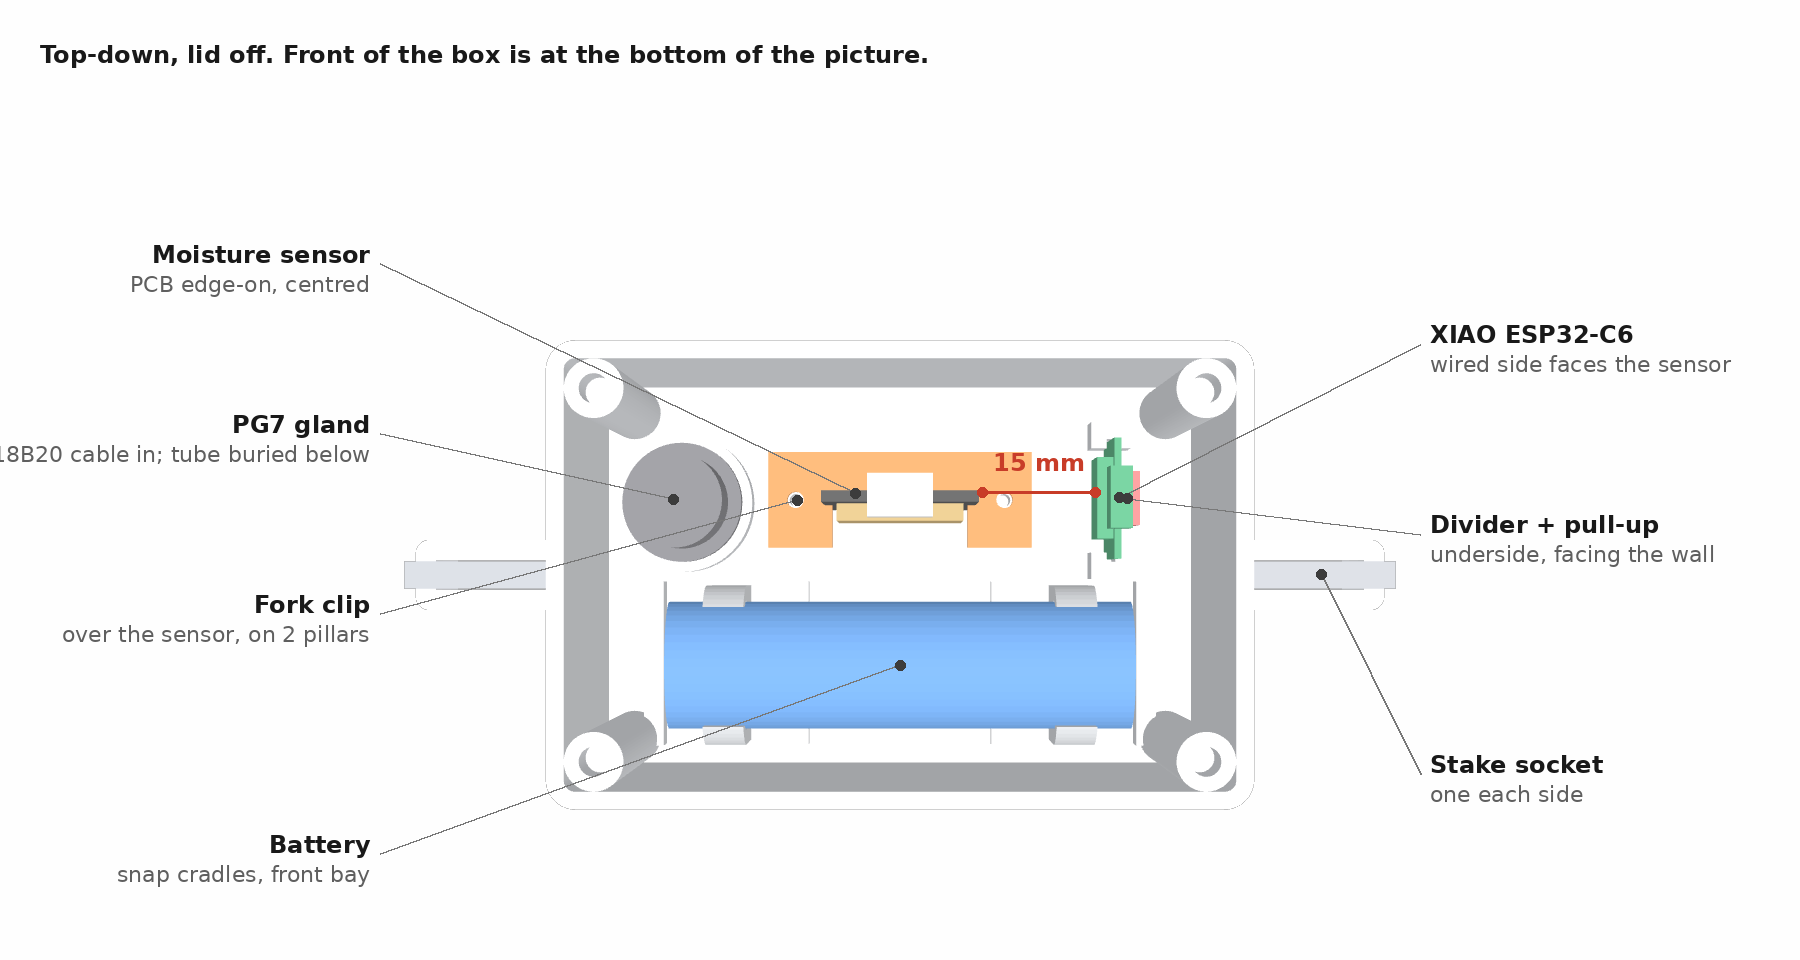
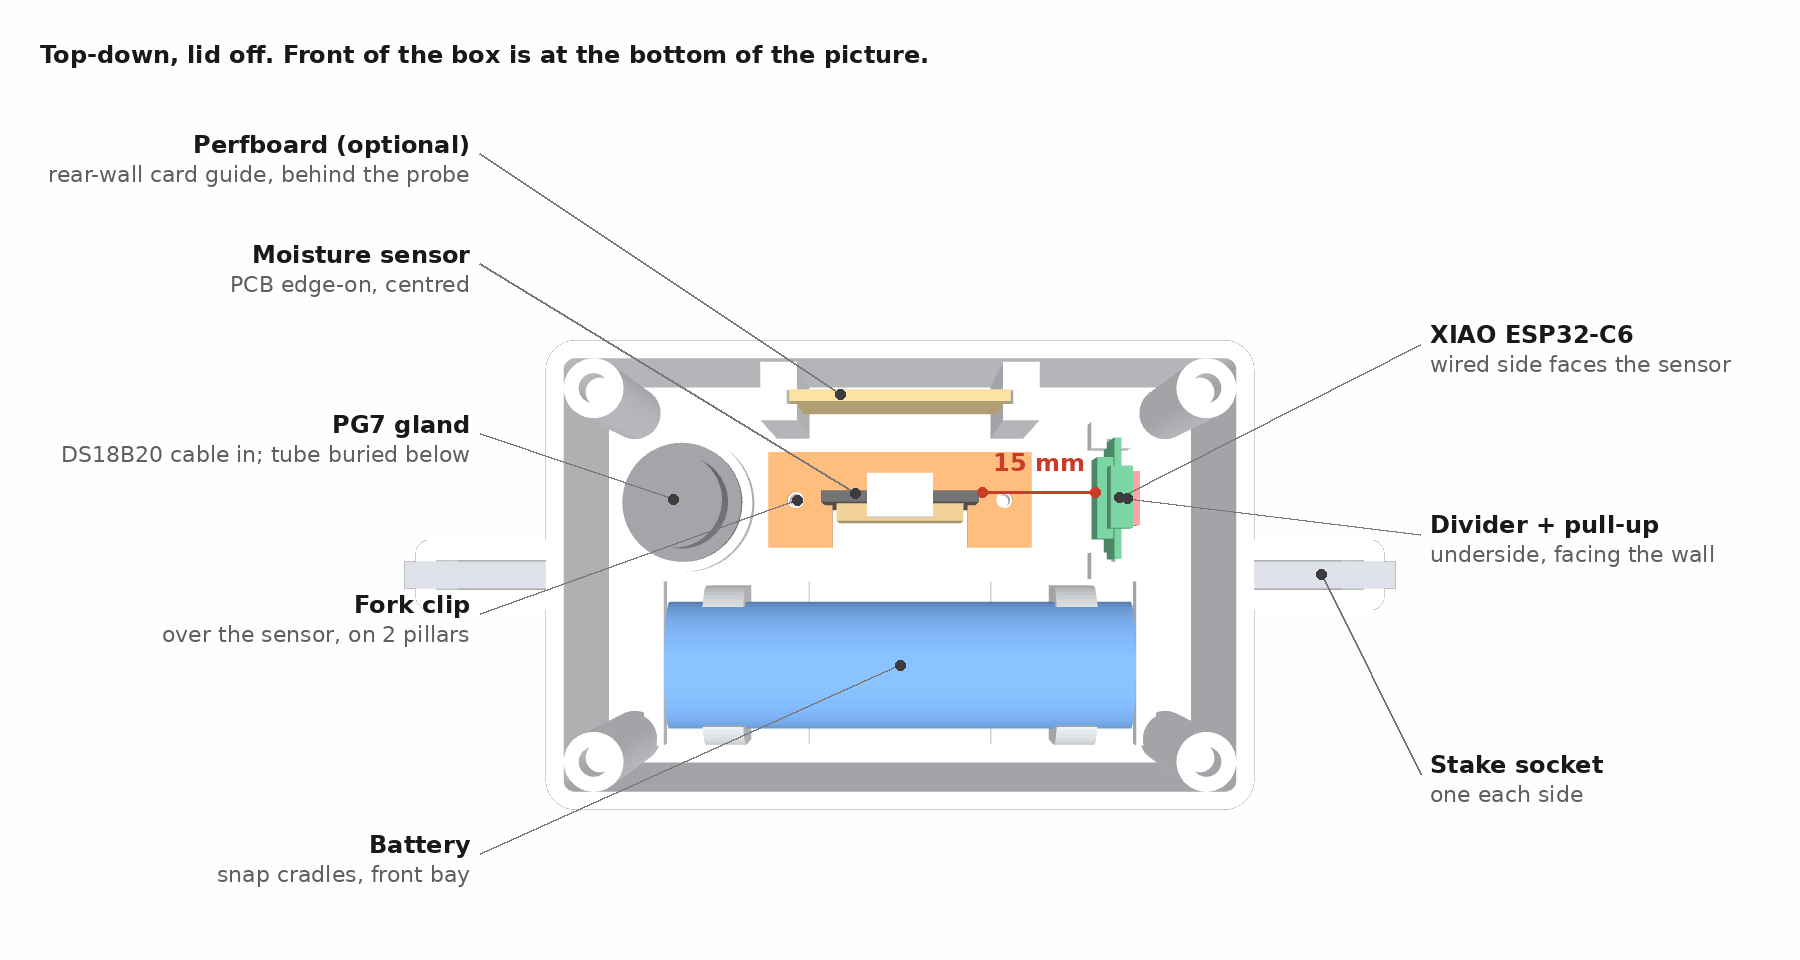
Add perfboard option for the battery divider
Rear-wall card guide for a 30 x 30 mm perfboard behind the probe, a
perfboard soldering guide with layout diagram, and doc/BOM updates.

Claude-Session: https://claude.ai/code/session_01MuCkd32gnwdDotn2UVWEVA

diff --git a/enclosure/soil_enclosure.py b/enclosure/soil_enclosure.py
@@ -69,6 +69,16 @@ XIAO_RAIL_H = 8.0               # covers only the unused bottom pin rows (D4-D6 
 XIAO_WALL_GAP = 13.0            # board plane to right interior wall (underside parts + fingers)
 XIAO_Y0 = 31.4                  # interior Y of the board's front edge
 
+# Optional perfboard (battery junction + divider) in a card guide on the rear wall, behind the
+# probe. Component side faces the probe, solder side faces the wall. Harmless if unused.
+PERF_GUIDE = True
+PERF_W, PERF_H = 30.0, 30.0     # measure yours
+PERF_T = 1.6                    # measure yours; slot = this + PERF_SLOT_CLEAR
+PERF_SLOT_CLEAR = 0.3
+PERF_GRIP = 1.0                 # rail overlap on each side edge (clear of the outer hole columns)
+PERF_WALL_GAP = 4.8             # board mid-plane to rear interior wall (solder side + links)
+PERF_Z0 = 24.0                  # board bottom edge above the floor (clears the probe clip)
+
 # Lid / screws
 BOSS_R = 4.0
 INSERT_D, INSERT_DEPTH = 4.0, 8.0   # M3 heat-set insert (use 2.6 for self-tapping)
@@ -186,6 +196,21 @@ for edge_y, sgn in ((xy0, -1), (xy1, 1)):   # sgn points away from the board
     box += cube(RAIL_X, RAIL_Y, XIAO_RAIL_H, (xbx - RAIL_X / 2, ry0, oz))
     sy0 = edge_y - 0.4 if sgn < 0 else edge_y - XIAO_GRIP - 0.5
     box -= cube(slot_w, XIAO_GRIP + 0.9, XIAO_RAIL_H + 1, (xbx - slot_w / 2, sy0, oz + 0.01))
+
+# perfboard card guide on the rear wall
+if PERF_GUIDE:
+    pby = oy + IY - PERF_WALL_GAP               # board mid-plane Y
+    pslot = PERF_T + PERF_SLOT_CLEAR
+    PRAIL_X, PRAIL_FRONT = 5.0, 2.2             # rail width; rail material in front of the board
+    prail_y0 = pby - pslot / 2 - PRAIL_FRONT
+    prail_h = PERF_Z0 + PERF_H - 4.0            # top 4 mm of the board stands proud for a grip
+    for sg in (-1, 1):
+        edge = cx + sg * PERF_W / 2
+        rx0 = (edge - PERF_GRIP) if sg > 0 else (edge + PERF_GRIP - PRAIL_X)
+        box += cube(PRAIL_X, oy + IY + 0.5 - prail_y0, prail_h, (rx0, prail_y0, oz))
+        # slot: edge clearance 0.4, runs from PERF_Z0 up through the top
+        sx0 = (edge - PERF_GRIP) if sg > 0 else (edge - 0.4)
+        box -= cube(PERF_GRIP + 0.4, pslot, prail_h, (sx0, pby - pslot / 2, oz + PERF_Z0))
 
 # stake sockets, left and right, at mid-depth
 SOCK_INNER = SOCKET_WALL + 2.0     # thicker on the box side so the stake head clears the wall

diff --git a/docs/soldering-perfboard.md b/docs/soldering-perfboard.md
@@ -1,0 +1,113 @@
+# Soldering guide: perfboard option
+
+This is an alternative to the dead-bug build in [soldering.md](soldering.md). The battery junction and divider move onto a small perfboard that slides into a card guide on the box's rear wall. This leaves the XIAO underside with just the two battery wires and the one-wire pull-up, and the divider is easier to solder, inspect and replace.
+
+The pull-up stays where it is (3V3 to D3 on the XIAO), and the two sensors wire to the XIAO's top side exactly as before.
+
+![Perfboard layout, component side and solder side](images/perfboard-layout.png)
+
+## What goes where
+
+| Net | Perfboard | Connects to |
+| --- | --- | --- |
+| BAT+ | Column 2, slots S1 + S2 | S1: pack + (pigtail red). S2: wire to XIAO **BAT+** pad. |
+| MID | Column 6, slot S5 | Wire to XIAO **D0** |
+| BAT− | Column 10, slots S8 + S9 | S8: pack − (pigtail black). S9: wire to XIAO **BAT−** pad. |
+
+Components (component side, lying flat):
+
+- **R1, 1 MΩ:** column 2 to column 6, row 3
+- **R2, 1 MΩ:** column 6 to column 10, row 5
+- **100 nF:** column 6 to column 10, row 7. Bend the legs so it lies on its side.
+
+Leave slots S3, S4, S6 and S7 empty. They keep the three nets apart. The top row of slots and the outer columns (1 and 11) aren't used: the rails of the card guide cover the outer 1 mm of each side edge.
+
+The board is assumed to be 30 × 30 × 1.6 mm with 11 × 8 holes at 2.54 mm, and a row of nine slots along the top and bottom edges. If yours is different, set `PERF_W`, `PERF_H` and `PERF_T` in [`enclosure/soil_enclosure.py`](../enclosure/soil_enclosure.py) and regenerate the box.
+
+## How it sits in the box
+
+- **Position:** vertical, against the rear wall, directly behind the moisture probe. The slot pads are at the bottom.
+- **Component side:** faces the probe. Keep parts under about 4 mm tall: there's about 5 mm before the probe's connector.
+- **Solder side:** faces the wall, with about 4 mm of clearance for the links.
+- **Height:** the board's bottom edge rests 24 mm above the floor, above the probe clip. The top 4 mm stands above the rails so you can pull it out.
+- **Wire routing:** wires leave the bottom edge and run along the rear wall to the right, toward the XIAO. The pigtail runs from the battery past the right side of the probe.
+
+## Extra parts
+
+- **Perfboard:** about 30 × 30 mm, 2.54 mm pitch, single-sided.
+- **Tinned copper wire:** a few cm of bare wire for the solder-side links, or use the trimmed component legs.
+
+Everything else (the resistors, capacitor, pigtail and wire) is the same as the dead-bug build.
+
+## Before you start
+
+The checklist in [soldering.md](soldering.md#before-you-start) still applies. Pay most attention to **battery polarity**: meter the pack through the pigtail and mark the + wire before you cut anything.
+
+## Steps
+
+**Perfboard**
+
+1. **Fit the parts.** Insert R1, R2 and the capacitor from the component side at the holes above. Press them flat to the board and splay the legs on the solder side to hold them.
+2. **Solder the legs** at their own holes. Don't trim them yet.
+3. **Run the links.** On the solder side, bend each leg down its column toward the bottom edge and solder it at every hole it passes. Use the R1 leg for column 2, an R1 or R2 leg for column 6, and an R2 or capacitor leg for column 10. Where a leg won't reach, continue with tinned wire.
+4. **Bring each column into its slot:** column 2 into S1 and S2, column 6 into S5, and column 10 into S8 and S9. Bridge S1–S2 and S8–S9 with a blob of solder or a short piece of wire.
+5. **Check the gaps.** Trim the excess legs, then inspect between columns 2, 6 and 10 and across S3/S4 and S6/S7 for solder bridges.
+
+**Wires to the perfboard** (all enter from the component side and solder on the slot pads)
+
+6. **Pigtail:** cut the JST pigtail to about 10 cm, then strip and tin it. Solder red to **S1** and black to **S8**.
+7. **XIAO battery leads:** cut two wires about 10 cm long, one red and one black. Solder red to **S2** and black to **S9**.
+8. **D0 lead:** cut one wire about 10 cm long, ideally blue or yellow, and solder it to **S5**.
+9. **Strain relief:** put a dab of hot glue over the slot joints where the wires leave the board.
+
+**XIAO underside** (board flipped over)
+
+10. **Tin the pads:** add flux, then a small blob of solder on BAT+ and BAT−.
+11. **Battery leads:** solder the red wire from S2 to **BAT+** and the black wire from S9 to **BAT−**. Tug each one gently to check it.
+12. **Pull-up:** sleeve the legs of the 4.7 kΩ and push them into the 3V3 and D3 holes from below. Bend them over on top to hold it. This is unchanged from the dead-bug build.
+13. **Insulate:** lay Kapton tape over the BAT pads.
+
+**XIAO top side** (right way up, USB-C up)
+
+14. **D0:** push the S5 wire into the **D0** hole from the top.
+15. **Sensors:** connect the moisture sensor (yellow to D1, red to D2), the DS18B20 (yellow to D3, red to 3V3), and both black wires twisted into GND. This is the same as steps 11–13 of [soldering.md](soldering.md#steps).
+16. **Solder** D0, D1, D2, D3, 3V3 and GND, then trim the legs flush.
+
+## Test before closing
+
+**Unpowered, on the perfboard**
+
+- [ ] S1 to S2: continuity. S8 to S9: continuity.
+- [ ] S2 to S9 (BAT+ to BAT−): about 2 MΩ, not a short.
+- [ ] S5 to S9: up to about 1 MΩ, not 0 and not open. The capacitor charges from the meter, so the reading climbs.
+- [ ] S2 to S5: about 1 MΩ.
+- [ ] No continuity from S3, S4, S6 or S7 to anything.
+
+**Unpowered, on the XIAO**
+
+- [ ] S2 has continuity to the BAT+ pad, S9 to the BAT− pad, and S5 to D0.
+- [ ] 3V3 to D3 reads about 4.7 kΩ.
+- [ ] The neighbouring-pin checks from [soldering.md](soldering.md#test-before-closing).
+
+**Powered**
+
+- [ ] With the pack plugged in, the XIAO's BAT+ to BAT− reads 3.7–4.2 V, positive on BAT+.
+- [ ] D0 to GND reads about half the pack voltage. It reads a little lower because the meter loads the divider.
+- [ ] After flashing, the battery voltage in Home Assistant matches your meter within about 0.05 V.
+
+## Fitting it in the box
+
+1. **Fit the XIAO** in its card guide first.
+2. **Slide the perfboard** straight down into the rear-wall rails, component side toward the probe and slots at the bottom, until it bottoms out.
+3. **Route the wires** along the rear wall to the right. Run the pigtail from the battery past the right side of the probe, then plug it into the pack.
+
+If the board is loose in the rails, add a strip of tape along each side edge. If it's tight, sand the edges or raise `PERF_SLOT_CLEAR` by 0.1.
+
+## Troubleshooting
+
+| Symptom | Likely cause | Fix |
+| --- | --- | --- |
+| Battery reads 0 | The S5 to D0 wire is open, or column 6 isn't linked to S5 | Check continuity from S5 to D0, and along column 6 |
+| Battery reads about full pack voltage | R2 is open, or column 10 isn't linked to S8/S9 | Check S5 to S9 resistance |
+| Board dead on battery, fine on USB | Pigtail reversed, or S1–S2 / S8–S9 not bridged | Check polarity at the XIAO pads and the slot bridges |
+| Perfboard won't drop into the rails | Board wider than 30 mm, or parts hanging over the side edges | Measure it and set `PERF_W`, or trim the edges |

diff --git a/docs/build.md b/docs/build.md
@@ -16,6 +16,7 @@ Quantities are per sensor.
 | 100 nF ceramic capacitor | 1 | Across the lower divider resistor. Needed because 1 MΩ is too weak a source for the ADC on its own. |
 | 4.7 kΩ resistor | 1 | DS18B20 pull-up. **Check it's kΩ, not Ω:** yellow-violet-black-*brown* on a 5-band resistor. |
 | 26–28 AWG silicone wire | ~30 cm | |
+| Perfboard, ~30 × 30 mm, 2.54 mm pitch | optional | Holds the divider and battery junction instead of dead-bugging them on the XIAO. See [soldering-perfboard.md](soldering-perfboard.md). |
 | M3 heat-set insert (4.0 mm hole) | 4 | Lid screws |
 | M3 × 10 pan-head screw + nylon washer | 4 | |
 | M2 × 6 self-tapping screw | 2 | Fixes the probe clip to its pillars |
@@ -47,6 +48,7 @@ On a Bambu X1C, print in an enclosed chamber with little or no part cooling, the
 - **PG7 gland:** screw it into its floor boss. If it binds, raise `PG7_CLEAR` by 0.1.
 - **Battery cradles:** press the cell in. If it's too stiff, set `CRADLE_OPEN` to 18.0; if it's loose, 17.2.
 - **XIAO guide:** slide the board into its rails. The slots assume a 1.0 mm PCB, so measure yours and adjust `XIAO_PCB_T`.
+- **Perfboard guide (optional):** the rear-wall rails assume a 30 × 30 × 1.6 mm board (`PERF_W`, `PERF_H`, `PERF_T`). Set `PERF_GUIDE = False` to leave them out.
 
 Every dimension is a parameter at the top of [`enclosure/soil_enclosure.py`](../enclosure/soil_enclosure.py). After changing one, regenerate the STLs:
 
@@ -62,19 +64,20 @@ python3 enclosure/soil_enclosure.py   # writes enclosure/stl/
 - **Battery:** lies across the front of the box in two snap cradles.
 - **Moisture probe:** stands edge-on in the middle and passes through a slot in the floor. The clip locks its side grooves so the floor sits 13 mm below the probe's "never bury past this" line, inside the maker's recommended band.
 - **XIAO:** stands in a card guide on the right, USB-C up, 13 mm off the wall. Its wired top side faces the open middle of the box; its flat underside faces the wall.
+- **Perfboard (optional):** stands in a card guide on the rear wall, directly behind the probe, 24 mm above the floor. The rails are empty if you use the dead-bug build.
 - **DS18B20:** the tube is buried 33 mm to the left of the probe centre, in the same plane as the probe's board, well clear of the probe's sensing field. Its tip is 6 cm down.
 
 ## Assembly
 
 1. **Inserts and gland.** Press the four M3 heat-set inserts into the corner bosses. Screw the PG7 gland body into the floor boss from inside.
 2. **Coat the probe.** Paint the cut PCB edges along the whole probe, and the component area, with conformal coat or nail polish. Leave the connector clean.
-3. **Solder the XIAO** following [soldering.md](soldering.md). Before soldering the DS18B20, feed its cable up through the gland body, seal insert and cap: the steel tube won't fit through afterwards.
+3. **Solder the XIAO** following [soldering.md](soldering.md), or [soldering-perfboard.md](soldering-perfboard.md) for the perfboard option. Before soldering the DS18B20, feed its cable up through the gland body, seal insert and cap: the steel tube won't fit through afterwards.
 4. **Flash and bench test.** See [firmware.md](firmware.md).
 5. **Fit the probe.** Push it down through the floor slot from inside, components facing the battery side, until the grooves line up with the pillar tops.
 6. **Fit the clip.** Slide the fork in from the battery side so its tines enter both grooves, then screw it to the pillars with two M2 screws.
 7. **Mark the DS18B20 depth.** With the tube hanging below the floor, set its tip 60 mm below the floor's underside. Mark the cable where it leaves the top of the gland body.
 8. **Seal the probe slot** with neutral-cure silicone, inside and out, and let it cure.
 9. **Battery.** Press the pack down into the two cradles with its leads along the top, then plug it in.
-10. **XIAO.** Slide it straight down into the card guide, USB-C up, wired side facing the probe. Coil the spare DS18B20 cable in the rear-left corner.
+10. **XIAO.** Slide it straight down into the card guide, USB-C up, wired side facing the probe. If you built the perfboard, slide it into the rear-wall rails next, component side toward the probe. Coil the spare DS18B20 cable in the rear-left corner.
 11. **Install.** With the lid off, unscrew the gland cap and pull the steel tube up into the box through the gland body. Slide a stake into each socket and press the box down until the floor sits flat on the soil. Push the 6 mm rod down through the gland body about 6 cm and pull it out. Lower the tube into the hole until the cable mark reaches the gland, then tighten the cap. Firm the soil around the edge of the floor.
 12. **Lid.** Seat the gasket, then fit the lid with four M3 × 10 screws and washers. Tighten evenly until the gasket just compresses.

diff --git a/README.md b/README.md
@@ -14,7 +14,7 @@ The sensor wakes every 15 minutes, joins Thread, reports to Home Assistant throu
 - **Battery protection.** Below 3.40 V the sensor wakes once a day; below 3.30 V, once a week. A forgotten charge can't run the cell flat.
 - **Stay-awake toggle.** One Home Assistant helper keeps every sensor awake for OTA updates or live logs. Updates are protected from the sleep timer while they run.
 - **Soil temperature at depth.** The DS18B20's steel tube is buried whole, next to the moisture probe and at the same depth, and its cable enters through a PG7 gland.
-- **Printable without supports.** Gasketed lid, snap-in battery cradles, a card guide for the XIAO, a clip that locks the probe at the right depth, and two stakes.
+- **Printable without supports.** Gasketed lid, snap-in battery cradles, card guides for the XIAO and an optional perfboard, a clip that locks the probe at the right depth, and two stakes.
 
 ## Repository layout
 
@@ -26,12 +26,13 @@ The sensor wakes every 15 minutes, joins Thread, reports to Home Assistant throu
 | [`enclosure/stl/`](enclosure/stl) | Ready-to-print STLs |
 | [`docs/build.md`](docs/build.md) | Bill of materials, printing and assembly |
 | [`docs/soldering.md`](docs/soldering.md) | Solder map, step-by-step soldering and bench tests |
+| [`docs/soldering-perfboard.md`](docs/soldering-perfboard.md) | Alternative: divider and battery junction on a small perfboard |
 | [`docs/firmware.md`](docs/firmware.md) | Flashing, Home Assistant setup, calibration, OTA, troubleshooting |
 
 ## Quick start
 
 1. **Print** the parts in ASA: [docs/build.md](docs/build.md#printing).
-2. **Solder** the XIAO: about eight joints, no extra board. See [docs/soldering.md](docs/soldering.md).
+2. **Solder** the XIAO: about eight joints, no extra board. See [docs/soldering.md](docs/soldering.md), or [the perfboard option](docs/soldering-perfboard.md) if you'd rather not dead-bug the divider.
 3. **Flash** the firmware over USB the first time, then add the device in Home Assistant and create the stay-awake helper. See [docs/firmware.md](docs/firmware.md).
 4. **Calibrate** in air and in water from the device page in Home Assistant.
 5. **Assemble and install:** press the box into the soil until the floor sits flat, with the stakes in their sockets.

diff --git a/docs/soldering.md b/docs/soldering.md
@@ -2,6 +2,8 @@
 
 Each sensor takes about eight solder joints on a bare XIAO ESP32-C6, with no headers and no extra board. Solder the underside first (battery, divider, pull-up), then the top side (both sensors).
 
+Prefer not to dead-bug the divider? The [perfboard option](soldering-perfboard.md) moves the divider and the battery junction onto a small board that slides into the rear wall of the box.
+
 ![Solder map, top side and underside](images/solder-map.png)
 
 The map spreads the divider out so you can see every joint. On the real board it lies flat against the underside, between the BAT pads and D0, inside the board outline and no more than about 4 mm tall. Leave the bottom pin rows (D4–D9) bare: that's where the card guide grips the board.
